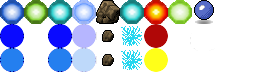
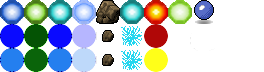
MOD New art for bolts
+ Refactoring

Changed region(s): [[0.0909, 0.3333, 0.1818, 1.0]]

diff --git a/src/EnemyBoltEntity.cpp b/src/EnemyBoltEntity.cpp
@@ -1,9 +1,9 @@
-#include "EnnemyBoltEntity.h"
+#include "EnemyBoltEntity.h"
 #include "Constants.h"
 #include "sfml_game/ImageManager.h"
 #include "WitchBlastGame.h"
 
-EnnemyBoltEntity::EnnemyBoltEntity(float x, float y, enumShotType boltType, int level) :
+EnemyBoltEntity::EnemyBoltEntity(float x, float y, enumShotType boltType, int level) :
   BoltEntity(x, y, -1, boltType, level)
 {
   damages = INITIAL_BOLT_DAMAGES;
@@ -19,9 +19,9 @@ EnnemyBoltEntity::EnnemyBoltEntity(float x, float y, enumShotType boltType, int 
   setMap(game().getCurrentMap(), TILE_WIDTH, TILE_HEIGHT, OFFSET_X, OFFSET_Y);
 }
 
-void EnnemyBoltEntity::animate(float delay)
+void EnemyBoltEntity::animate(float delay)
 {
-  if (boltType != ShotTypeBomb)
+  /*if (boltType != ShotTypeBomb)
   {
     SpriteEntity* trace = new SpriteEntity(ImageManager::getInstance().getImage(IMAGE_BOLT), x, y, BOLT_WIDTH, BOLT_HEIGHT);
     trace->setFading(true);
@@ -30,7 +30,11 @@ void EnnemyBoltEntity::animate(float delay)
     trace->setShrinking(true, renderScale, renderScale);
     trace->setType(ENTITY_EFFECT);
     trace->setFrame(frame);
-  }
+  }*/
+  if (boltType != ShotTypeBomb)
+    particleGenerator.GenerateParticles(frame, IMAGE_BOLT, x, y, BOLT_WIDTH, BOLT_HEIGHT,
+                        boltType == ShotTypeLightning ? Vector2D(20.0f) : Vector2D(0.0f, 0.0f),
+                        10, boltType == ShotTypeIce ? renderScale * 1.3f : renderScale);
 
   z = y + height;
   CollidingSpriteEntity::animate(delay);

diff --git a/src/WitchEntity.cpp b/src/WitchEntity.cpp
@@ -1,6 +1,6 @@
 #include "WitchEntity.h"
 #include "BoltEntity.h"
-#include "EnnemyBoltEntity.h"
+#include "EnemyBoltEntity.h"
 #include "PlayerEntity.h"
 #include "RatEntity.h"
 #include "BatEntity.h"
@@ -185,7 +185,7 @@ void WitchEntity::fire()
   if (witchType == WitchTypeNormal)
   {
     SoundManager::getInstance().playSound(SOUND_BLAST_FLOWER);
-    EnnemyBoltEntity* bolt = new EnnemyBoltEntity
+    EnemyBoltEntity* bolt = new EnemyBoltEntity
           (x, y + 10, ShotTypeStandard, 0);
     bolt->setMap(map, TILE_WIDTH, TILE_HEIGHT, OFFSET_X, OFFSET_Y);
 
@@ -196,7 +196,7 @@ void WitchEntity::fire()
   else
   {
     SoundManager::getInstance().playSound(SOUND_BLAST_FLOWER);
-    EnnemyBoltEntity* bolt = new EnnemyBoltEntity
+    EnemyBoltEntity* bolt = new EnemyBoltEntity
           (x, y + 10, ShotTypeBomb, 0);
     bolt->setMap(map, TILE_WIDTH, TILE_HEIGHT, OFFSET_X, OFFSET_Y);
 

diff --git a/src/ImpEntity.cpp b/src/ImpEntity.cpp
@@ -5,7 +5,7 @@
 #include "sfml_game/SoundManager.h"
 #include "Constants.h"
 #include "WitchBlastGame.h"
-#include "EnnemyBoltEntity.h"
+#include "EnemyBoltEntity.h"
 
 ImpEntity::ImpEntity(float x, float y, impTypeEnum impType)
   : EnemyEntity (ImageManager::getInstance().getImage(IMAGE_IMP), x, y)
@@ -158,15 +158,15 @@ void ImpEntity::fire()
 {
     SoundManager::getInstance().playSound(SOUND_BLAST_FLOWER);
 
-    EnnemyBoltEntity* bolt;
+    EnemyBoltEntity* bolt;
     if (impType == ImpTypeBlue)
     {
-      bolt = new EnnemyBoltEntity(x, y, ShotTypeIce, 0);
+      bolt = new EnemyBoltEntity(x, y, ShotTypeIce, 0);
       bolt->setDamages(5);
     }
     else
     {
-      bolt = new EnnemyBoltEntity(x, y, ShotTypeFire, 0);
+      bolt = new EnemyBoltEntity(x, y, ShotTypeFire, 0);
       bolt->setDamages(8);
     }
     bolt->setFlying(true);

diff --git a/src/SlimeEntity.cpp b/src/SlimeEntity.cpp
@@ -1,6 +1,6 @@
 #include "SlimeEntity.h"
 #include "PlayerEntity.h"
-#include "EnnemyBoltEntity.h"
+#include "EnemyBoltEntity.h"
 #include "ExplosionEntity.h"
 #include "sfml_game/SpriteEntity.h"
 #include "sfml_game/ImageManager.h"
@@ -340,16 +340,16 @@ void SlimeEntity::fire()
 {
   for (int i = 0; i < 4; i++)
   {
-    EnnemyBoltEntity* bolt;
+    EnemyBoltEntity* bolt;
 
     if (slimeType == SlimeTypeBlue)
     {
-      bolt = new EnnemyBoltEntity(x, y, ShotTypeIce, 0);
+      bolt = new EnemyBoltEntity(x, y, ShotTypeIce, 0);
       bolt->setDamages(5);
     }
     else if (slimeType == SlimeTypeRed)
     {
-      bolt = new EnnemyBoltEntity(x, y, ShotTypeFire, 0);
+      bolt = new EnemyBoltEntity(x, y, ShotTypeFire, 0);
       bolt->setDamages(8);
     }
     else

diff --git a/src/GiantSlimeEntity.cpp b/src/GiantSlimeEntity.cpp
@@ -1,6 +1,6 @@
 #include "GiantSlimeEntity.h"
 #include "BoltEntity.h"
-#include "EnnemyBoltEntity.h"
+#include "EnemyBoltEntity.h"
 #include "PlayerEntity.h"
 #include "SlimeEntity.h"
 #include "sfml_game/SpriteEntity.h"
@@ -449,7 +449,7 @@ BaseCreatureEntity::enumMovingStyle GiantSlimeEntity::getMovingStyle()
 void GiantSlimeEntity::fire()
 {
   SoundManager::getInstance().playSound(SOUND_BLAST_FLOWER);
-  EnnemyBoltEntity* bolt = new EnnemyBoltEntity
+  EnemyBoltEntity* bolt = new EnemyBoltEntity
   (x, y + 10, ShotTypeStandard, 0);
   bolt->setFrame(1);
   bolt->setMap(map, TILE_WIDTH, TILE_HEIGHT, OFFSET_X, OFFSET_Y);

diff --git a/src/EvilFlowerEntity.cpp b/src/EvilFlowerEntity.cpp
@@ -1,6 +1,6 @@
 #include "EvilFlowerEntity.h"
 #include "BoltEntity.h"
-#include "EnnemyBoltEntity.h"
+#include "EnemyBoltEntity.h"
 #include "PlayerEntity.h"
 #include "sfml_game/SpriteEntity.h"
 #include "sfml_game/ImageManager.h"
@@ -74,7 +74,7 @@ void EvilFlowerEntity::dying()
 void EvilFlowerEntity::fire()
 {
     SoundManager::getInstance().playSound(SOUND_BLAST_FLOWER);
-    EnnemyBoltEntity* bolt = new EnnemyBoltEntity
+    EnemyBoltEntity* bolt = new EnemyBoltEntity
           (x, y + 10, ShotTypeStandard, 0);
     bolt->setFrame(1);
     bolt->setDamages(EVIL_FLOWER_MISSILE_DAMAGES);

diff --git a/src/PlayerEntity.cpp b/src/PlayerEntity.cpp
@@ -2,7 +2,7 @@
 #include "SlimeEntity.h"
 #include "FallingRockEntity.h"
 #include "BoltEntity.h"
-#include "EnnemyBoltEntity.h"
+#include "EnemyBoltEntity.h"
 #include "ItemEntity.h"
 #include "FairyEntity.h"
 #include "sfml_game/ImageManager.h"
@@ -675,7 +675,7 @@ void PlayerEntity::readCollidingEntity(CollidingSpriteEntity* entity)
 {
   if (playerStatus == playerStatusDead) return;
 
-  EnnemyBoltEntity* boltEntity = dynamic_cast<EnnemyBoltEntity*>(entity);
+  EnemyBoltEntity* boltEntity = dynamic_cast<EnemyBoltEntity*>(entity);
 
   if (collideWithEntity(entity))
   {

diff --git a/src/GiantSpiderEntity.cpp b/src/GiantSpiderEntity.cpp
@@ -1,5 +1,5 @@
 #include "GiantSpiderEntity.h"
-#include "EnnemyBoltEntity.h"
+#include "EnemyBoltEntity.h"
 #include "PlayerEntity.h"
 #include "SpiderEggEntity.h"
 #include "SpiderWebEntity.h"
@@ -306,9 +306,9 @@ void GiantSpiderEntity::fire(int fireType)
 {
     SoundManager::getInstance().playSound(SOUND_BLAST_FLOWER);
 
-    EnnemyBoltEntity* bolt;
+    EnemyBoltEntity* bolt;
 
-    bolt = new EnnemyBoltEntity(x, y, ShotTypeStandard, 0);
+    bolt = new EnemyBoltEntity(x, y, ShotTypeStandard, 0);
     bolt->setDamages(5);
 
     float fireVelocity = 180.0f;

diff --git a/src/ParticleGenerator.cpp b/src/ParticleGenerator.cpp
@@ -61,7 +61,7 @@ void ParticleGenerator::GenerateBoltParticle(int frame, const Vector2D & velocit
   float particleScale = scale - 0.2f;
 
   // "background" particle
-  if (frame != ShotTypeIce && frame != ShotTypeIllusion)
+  //if (frame != ShotTypeIce && frame != ShotTypeIllusion)
   {
     SpriteEntity* particle = new SpriteEntity(ImageManager::getInstance().getImage(IMAGE_BOLT), posX, posY, BOLT_WIDTH, BOLT_HEIGHT);
     particle->setFading(true);

diff --git a/src/BoltEntity.h b/src/BoltEntity.h
@@ -45,13 +45,14 @@ class BoltEntity : public CollidingSpriteEntity
     int damages;
     float renderScale;
     enumShotType boltType;
+
+    ParticleGenerator particleGenerator;
+
   private:
     bool testWallsCollision;
     bool flying;
     bool critical;
     unsigned int level;
-
-    ParticleGenerator particleGenerator;
 };
 
 #endif // BOLTENTITY_H

diff --git a/src/EnemyBoltEntity.h b/src/EnemyBoltEntity.h
@@ -4,10 +4,10 @@
 #include "BoltEntity.h"
 
 
-class EnnemyBoltEntity : public BoltEntity
+class EnemyBoltEntity : public BoltEntity
 {
   public:
-    EnnemyBoltEntity(float x, float y, enumShotType boltType, int level);
+    EnemyBoltEntity(float x, float y, enumShotType boltType, int level);
     virtual void animate(float delay);
 };
 
